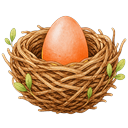
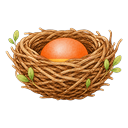
Use plump low-profile nest pins (36x36px) with clean twig masking

diff --git a/index.html b/index.html
@@ -588,8 +588,8 @@
     const badge = cnt > 1
       ? `<span style="position:absolute;top:-4px;right:-4px;background:#D07D3E;color:#fff;font-size:10.5px;font-weight:700;border-radius:999px;padding:1px 6px;border:1.5px solid #fff;line-height:1.2;box-shadow:0 1px 3px rgba(0,0,0,0.25);">${cnt}</span>`
       : '';
-    return `<div style="position:relative;width:46px;height:46px;filter:drop-shadow(0 2px 4px rgba(40,25,10,0.32));">
-      <img src="${src}" alt="" style="width:46px;height:46px;display:block;object-fit:contain;" />${badge}
+    return `<div style="position:relative;width:36px;height:36px;filter:drop-shadow(0 2px 4px rgba(40,25,10,0.32));">
+      <img src="${src}" alt="" style="width:36px;height:36px;display:block;object-fit:contain;" />${badge}
     </div>`;
   }
   function nestPinSvg(color, cnt) {
@@ -792,8 +792,8 @@
       const nestIcon = L.divIcon({
         className: 'custom-nest-pin',
         html: nestPinImg(latestDec.catId, cnt),
-        iconSize: [46, 46],
-        iconAnchor: [23, 30]
+        iconSize: [36, 36],
+        iconAnchor: [18, 22]
       });
 
       if (!isNaN(g.lat) && !isNaN(g.lng)) {
